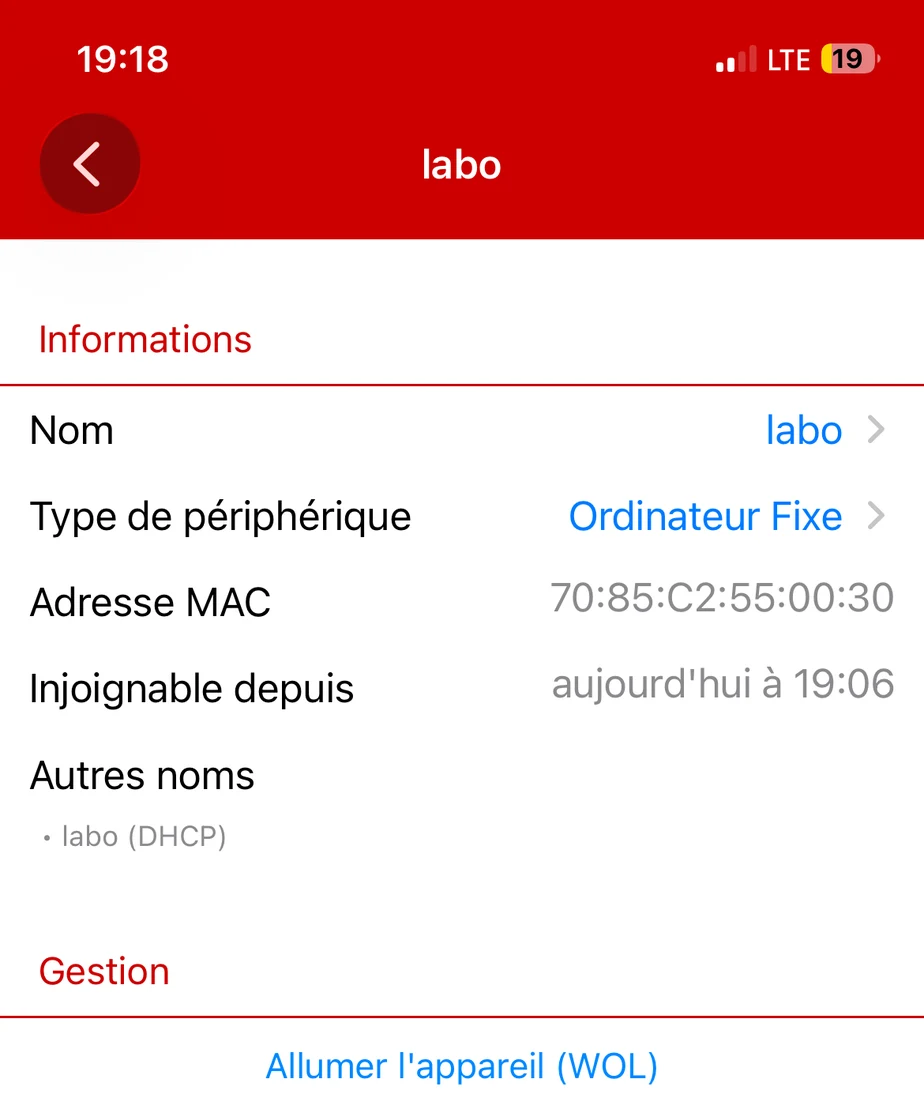
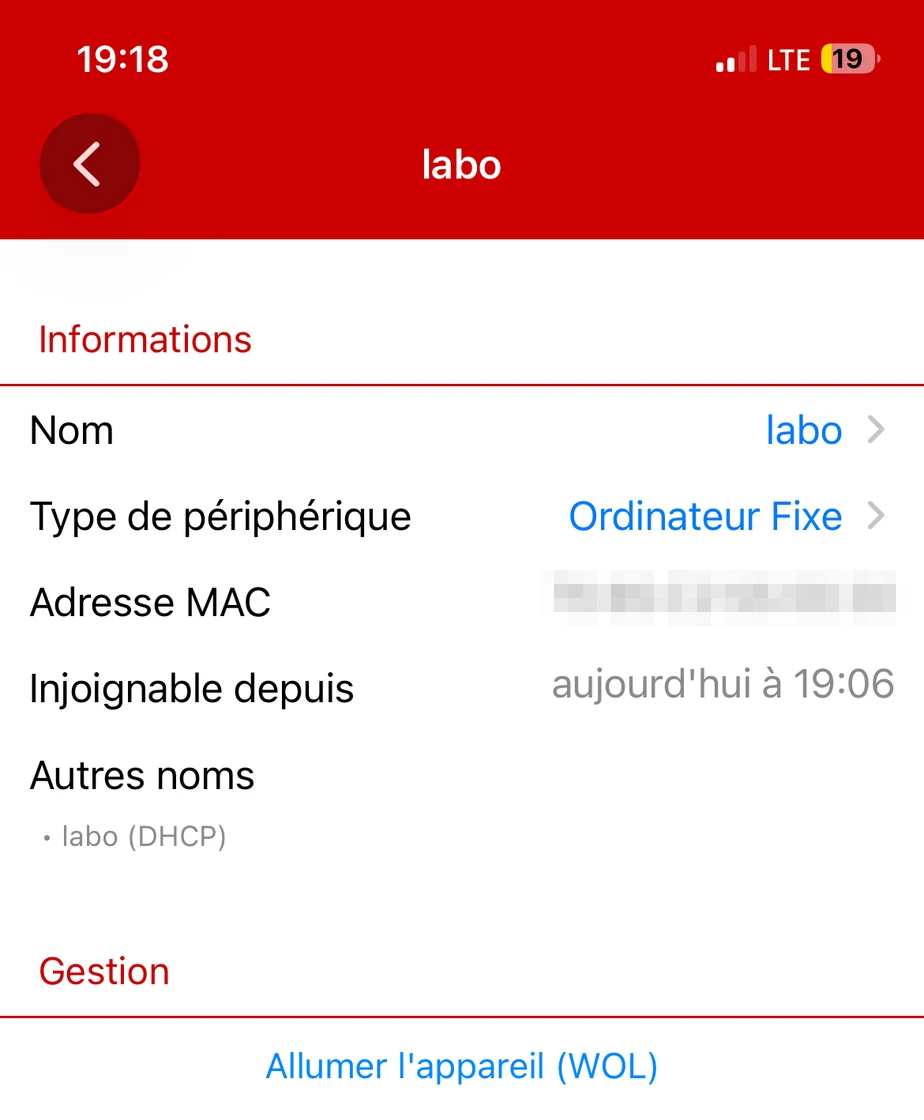
Homelab étape 3 : adresses MAC floutées sur les captures des baux statiques et de l'appli Freebox

Changed region(s): [[0.6061, 0.5, 0.9697, 0.5625]]

diff --git a/projets/homelab-etape-3.html b/projets/homelab-etape-3.html
@@ -139,10 +139,10 @@ sudo ethtool enp0s31f6 | grep Wake-on     # Wake-on: g = réveil par « paquet m
 <figure class="shot" id="fig-13"><a href="img/homelab-etape-3-13.webp"><img src="img/homelab-etape-3-13.webp" alt="Terminal : last -x montre shutdown system down à 17:14:24 puis reboot system boot à 17:24:19." width="1105" height="124" loading="lazy"></a><figcaption><b>Fig. 13</b> L'extinction propre est inscrite dans le journal.</figcaption></figure>
 <figure class="shot" id="fig-14"><a href="img/homelab-etape-3-14.webp"><img src="img/homelab-etape-3-14.webp" alt="Terminal : après le redémarrage de 17:24, ethtool enp0s31f6 affiche toujours Wake-on: g." width="1093" height="265" loading="lazy"></a><figcaption><b>Fig. 14</b> Le réglage tient après un redémarrage.</figcaption></figure>
 <figure class="shot" id="fig-15"><a href="img/homelab-etape-3-15.webp"><img src="img/homelab-etape-3-15.webp" alt="Terminal : ip -br addr montre enp0s31f6 UP avec la priorité 100 et le Wi-Fi avec la priorité 600 ; ping de la box 192.168.1.254 en 2,9 ms en moyenne (adresses IPv6 masquées)." width="1320" height="435" loading="lazy"></a><figcaption><b>Fig. 15</b> La carte filaire est active par le CPL, avant le changement des baux (adresses IPv6 masquées).</figcaption></figure>
-<figure class="shot" id="fig-16"><a href="img/homelab-etape-3-16.webp"><img src="img/homelab-etape-3-16.webp" alt="Freebox OS, baux statiques : labo (Wi-Fi) en 192.168.1.50 et labo (câble) en 192.168.1.49." width="954" height="678" loading="lazy"></a><figcaption><b>Fig. 16</b> Deux baux fixes : le câble garde l'adresse .49.</figcaption></figure>
+<figure class="shot" id="fig-16"><a href="img/homelab-etape-3-16.webp"><img src="img/homelab-etape-3-16.webp" alt="Freebox OS, baux statiques : labo (Wi-Fi) en 192.168.1.50 et labo (câble) en 192.168.1.49 (adresses MAC floutées)." width="954" height="678" loading="lazy"></a><figcaption><b>Fig. 16</b> Deux baux fixes : le câble garde l'adresse .49. (adresses MAC floutées)</figcaption></figure>
 <figure class="shot" id="fig-17"><a href="img/homelab-etape-3-17.webp"><img src="img/homelab-etape-3-17.webp" alt="Freebox OS, périphériques réseau : menu du clic droit sur labo, Réveil réseau (Wake on Lan), puis Allumer ou Allumer (avancé)." width="605" height="390" loading="lazy"></a><figcaption><b>Fig. 17</b> Le menu de réveil dans Freebox OS.</figcaption></figure>
 <figure class="shot" id="fig-18"><a href="img/homelab-etape-3-18.webp"><img src="img/homelab-etape-3-18.webp" alt="Terminal : last -x montre shutdown à 18:50, puis reboot à 18:58 après l'envoi du paquet de réveil." width="816" height="171" loading="lazy"></a><figcaption><b>Fig. 18</b> Le réveil par le réseau fonctionne.</figcaption></figure>
-<div class="shots"><figure class="shot" id="fig-19"><a href="img/homelab-etape-3-19.webp"><img src="img/homelab-etape-3-19.webp" alt="Application WireGuard sur iPhone en LTE à 19:18 : tunnel freebox activé." width="924" height="420" loading="lazy"></a><figcaption><b>Fig. 19</b> Test 4G, 1 : le VPN.</figcaption></figure><figure class="shot" id="fig-20"><a href="img/homelab-etape-3-20.webp"><img src="img/homelab-etape-3-20.webp" alt="Application Freebox sur iPhone en LTE : appareil labo, injoignable depuis 19:06, bouton Allumer l'appareil (WOL)." width="924" height="1120" loading="lazy"></a><figcaption><b>Fig. 20</b> Test 4G, 2 : le réveil.</figcaption></figure><figure class="shot" id="fig-21"><a href="img/homelab-etape-3-21.webp"><img src="img/homelab-etape-3-21.webp" alt="Termius sur iPhone en LTE à 19:19 : hostname répond labo, uptime -p répond up 1 minute." width="924" height="930" loading="lazy"></a><figcaption><b>Fig. 21</b> Test 4G, 3 : la tour vient de démarrer.</figcaption></figure></div>
+<div class="shots"><figure class="shot" id="fig-19"><a href="img/homelab-etape-3-19.webp"><img src="img/homelab-etape-3-19.webp" alt="Application WireGuard sur iPhone en LTE à 19:18 : tunnel freebox activé." width="924" height="420" loading="lazy"></a><figcaption><b>Fig. 19</b> Test 4G, 1 : le VPN.</figcaption></figure><figure class="shot" id="fig-20"><a href="img/homelab-etape-3-20.webp"><img src="img/homelab-etape-3-20.webp" alt="Application Freebox sur iPhone en LTE : appareil labo, injoignable depuis 19:06, bouton Allumer l'appareil (WOL) (adresse MAC floutée)." width="924" height="1120" loading="lazy"></a><figcaption><b>Fig. 20</b> Test 4G, 2 : le réveil (adresse MAC floutée).</figcaption></figure><figure class="shot" id="fig-21"><a href="img/homelab-etape-3-21.webp"><img src="img/homelab-etape-3-21.webp" alt="Termius sur iPhone en LTE à 19:19 : hostname répond labo, uptime -p répond up 1 minute." width="924" height="930" loading="lazy"></a><figcaption><b>Fig. 21</b> Test 4G, 3 : la tour vient de démarrer.</figcaption></figure></div>
 <figure class="shot" id="fig-22"><a href="img/homelab-etape-3-22.webp"><img src="img/homelab-etape-3-22.webp" alt="Freebox OS, utilisateurs du serveur VPN : iphone-maxime en 192.168.27.65 et portable-maxime en 192.168.27.66." width="1257" height="630" loading="lazy"></a><figcaption><b>Fig. 22</b> Un utilisateur VPN par appareil.</figcaption></figure>
 <figure class="shot" id="fig-23"><a href="img/homelab-etape-3-23.webp"><img src="img/homelab-etape-3-23.webp" alt="Terminal du PC portable en 4G sans VPN : ssh vers labo, port 22, Connection timed out." width="700" height="51" loading="lazy"></a><figcaption><b>Fig. 23</b> Sans VPN, la tour est invisible depuis internet.</figcaption></figure>
 <figure class="shot" id="fig-24"><a href="img/homelab-etape-3-24.webp"><img src="img/homelab-etape-3-24.webp" alt="WireGuard pour Windows : tunnel du portable activé, adresse 192.168.27.66/32, clé pré-partagée activée, dernière liaison il y a 1 seconde (clés, point de terminaison et serveur DNS masqués)." width="972" height="760" loading="lazy"></a><figcaption><b>Fig. 24</b> Le tunnel actif sur le PC portable (clés et adresses publiques masquées).</figcaption></figure>
